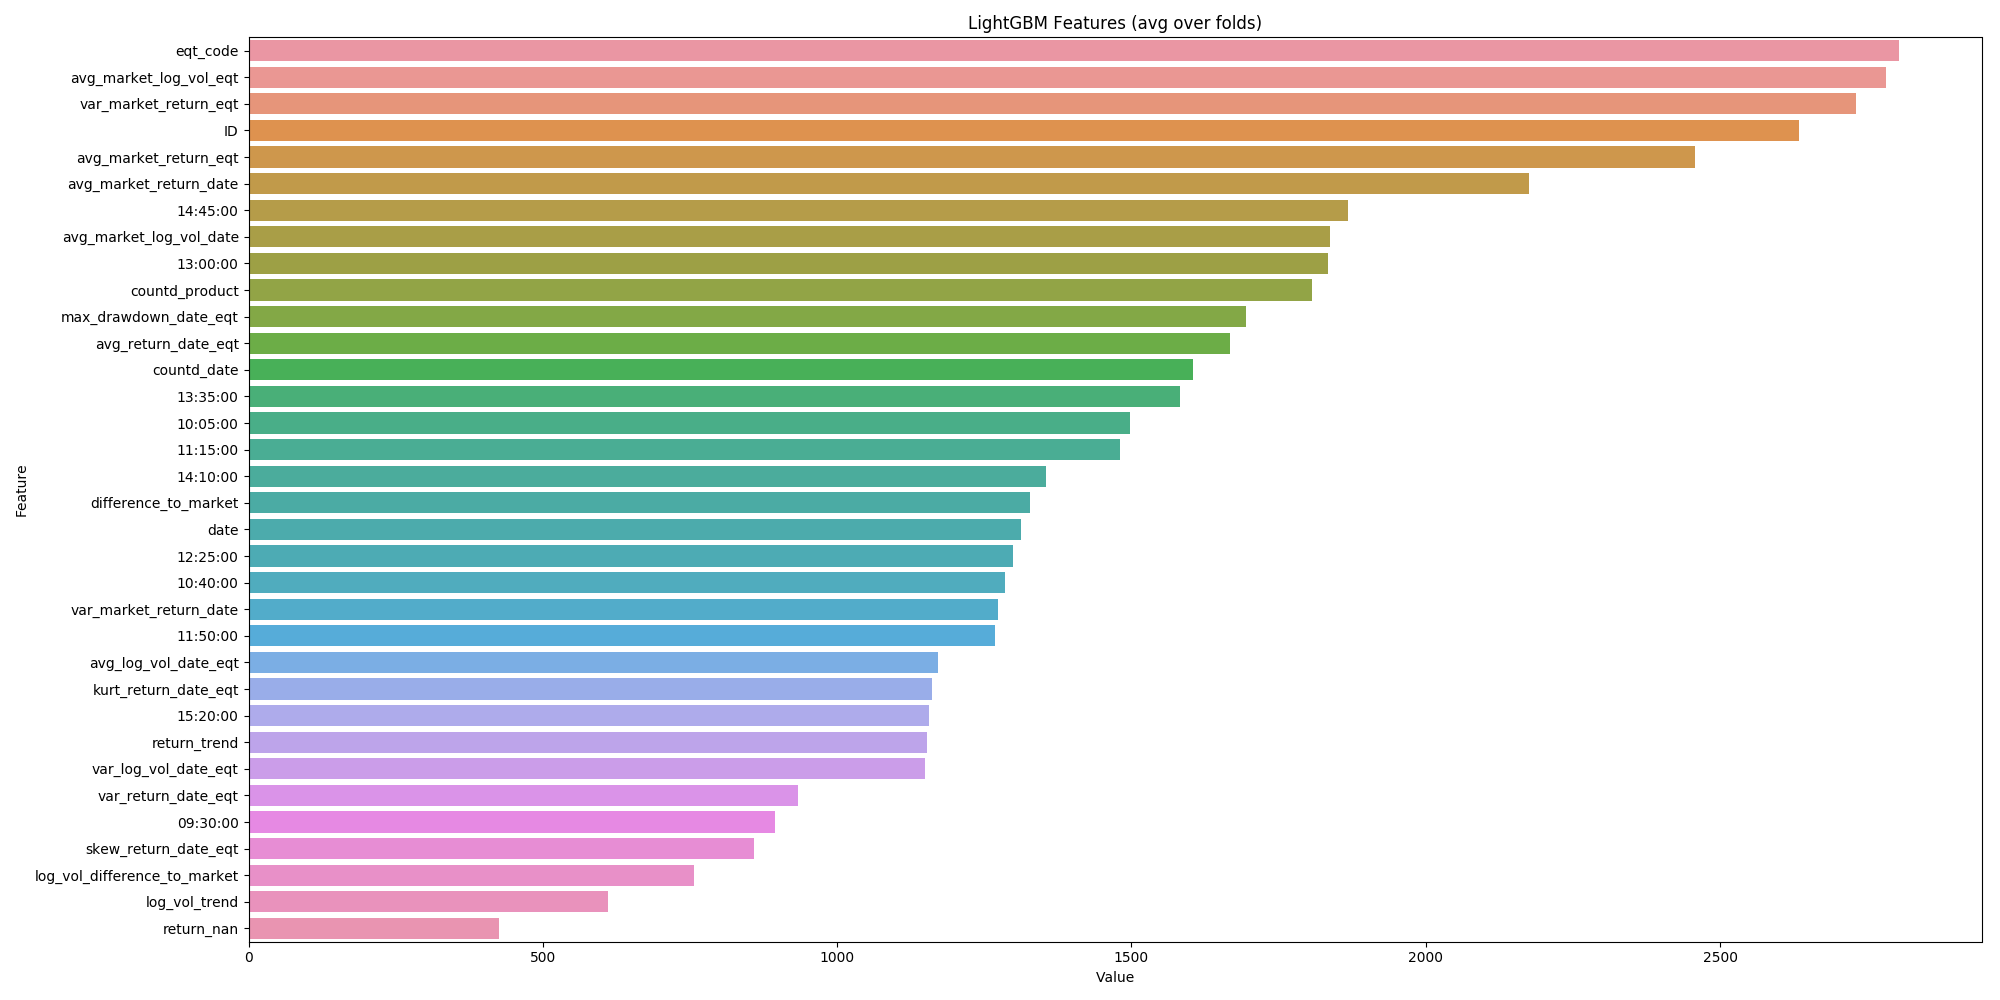
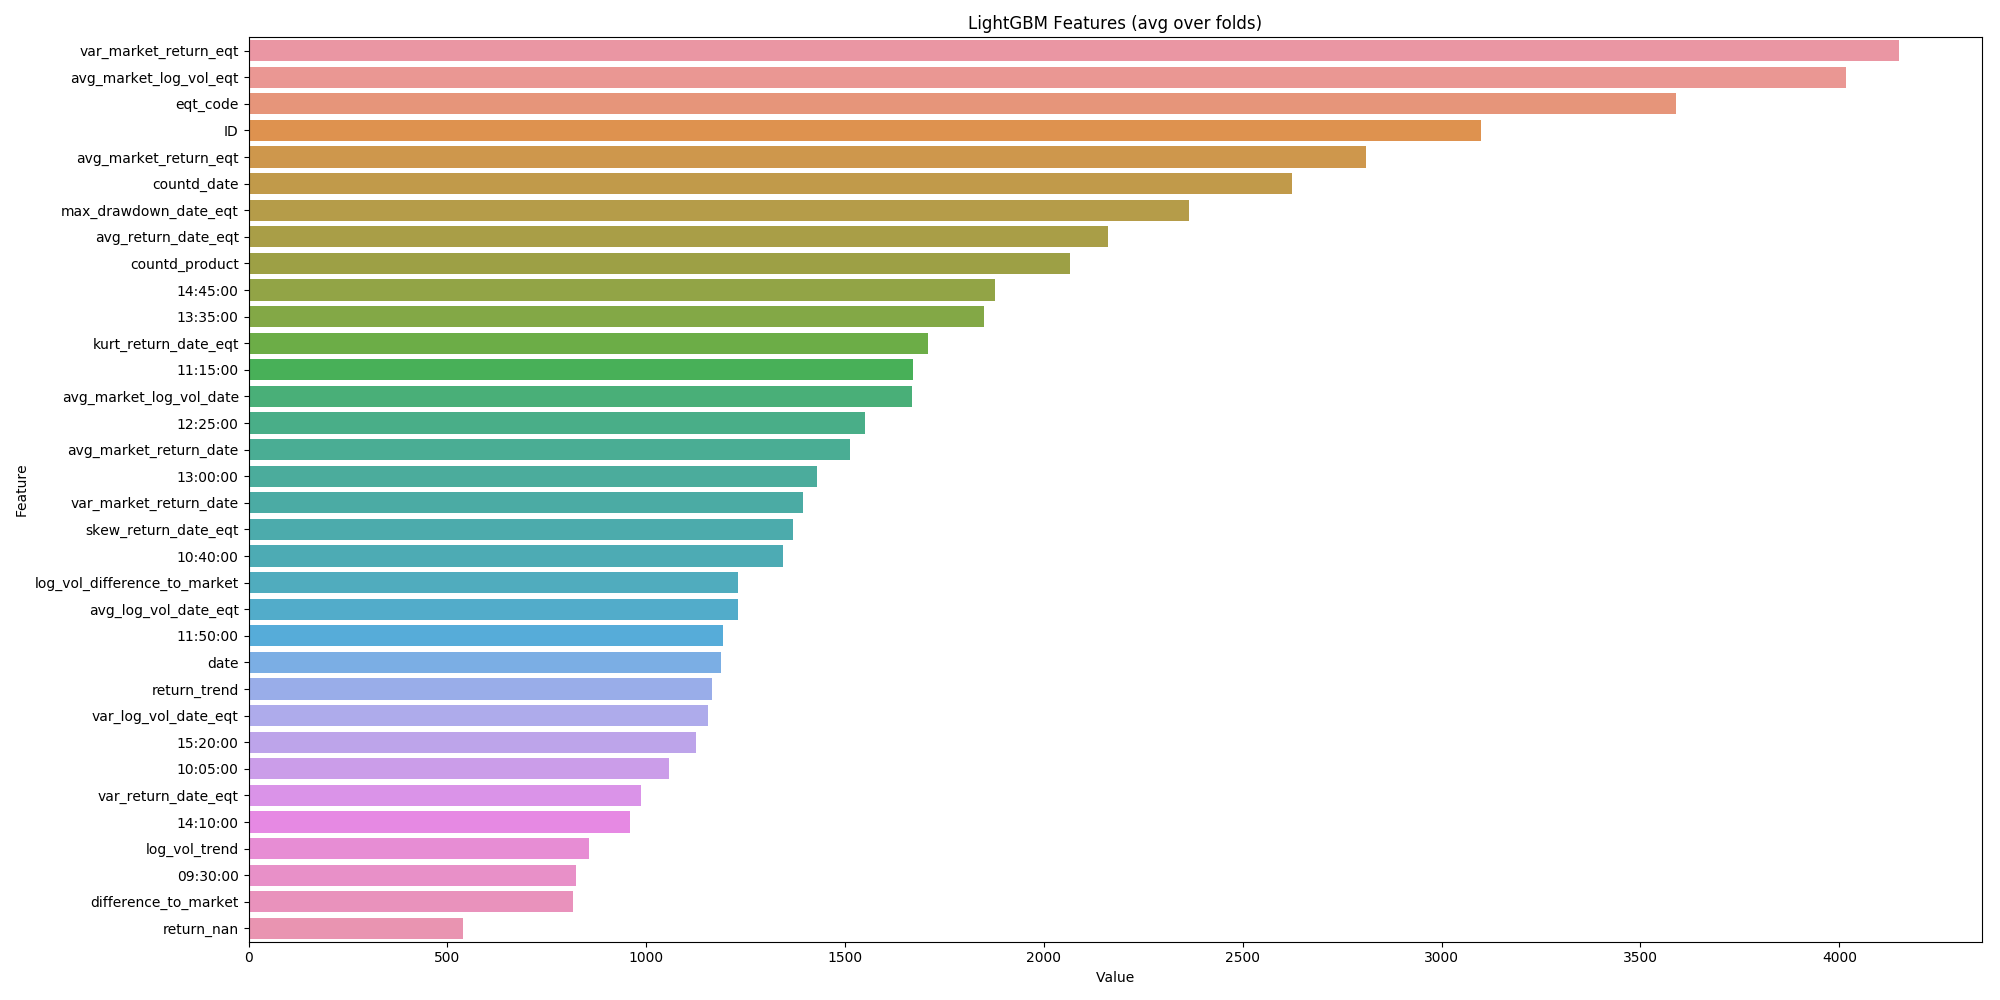
Feature importance

diff --git a/src/models/boosting/lightGBM.py b/src/models/boosting/lightGBM.py
@@ -47,7 +47,7 @@ param_test = {
     'reg_lambda': [0, 1e-1, 1, 5, 10, 20, 50, 100]
 }
 
-n_HP_points_to_test = 1
+n_HP_points_to_test = 100
 
 clf = lgbm.LGBMClassifier(
     max_depth=-1,
